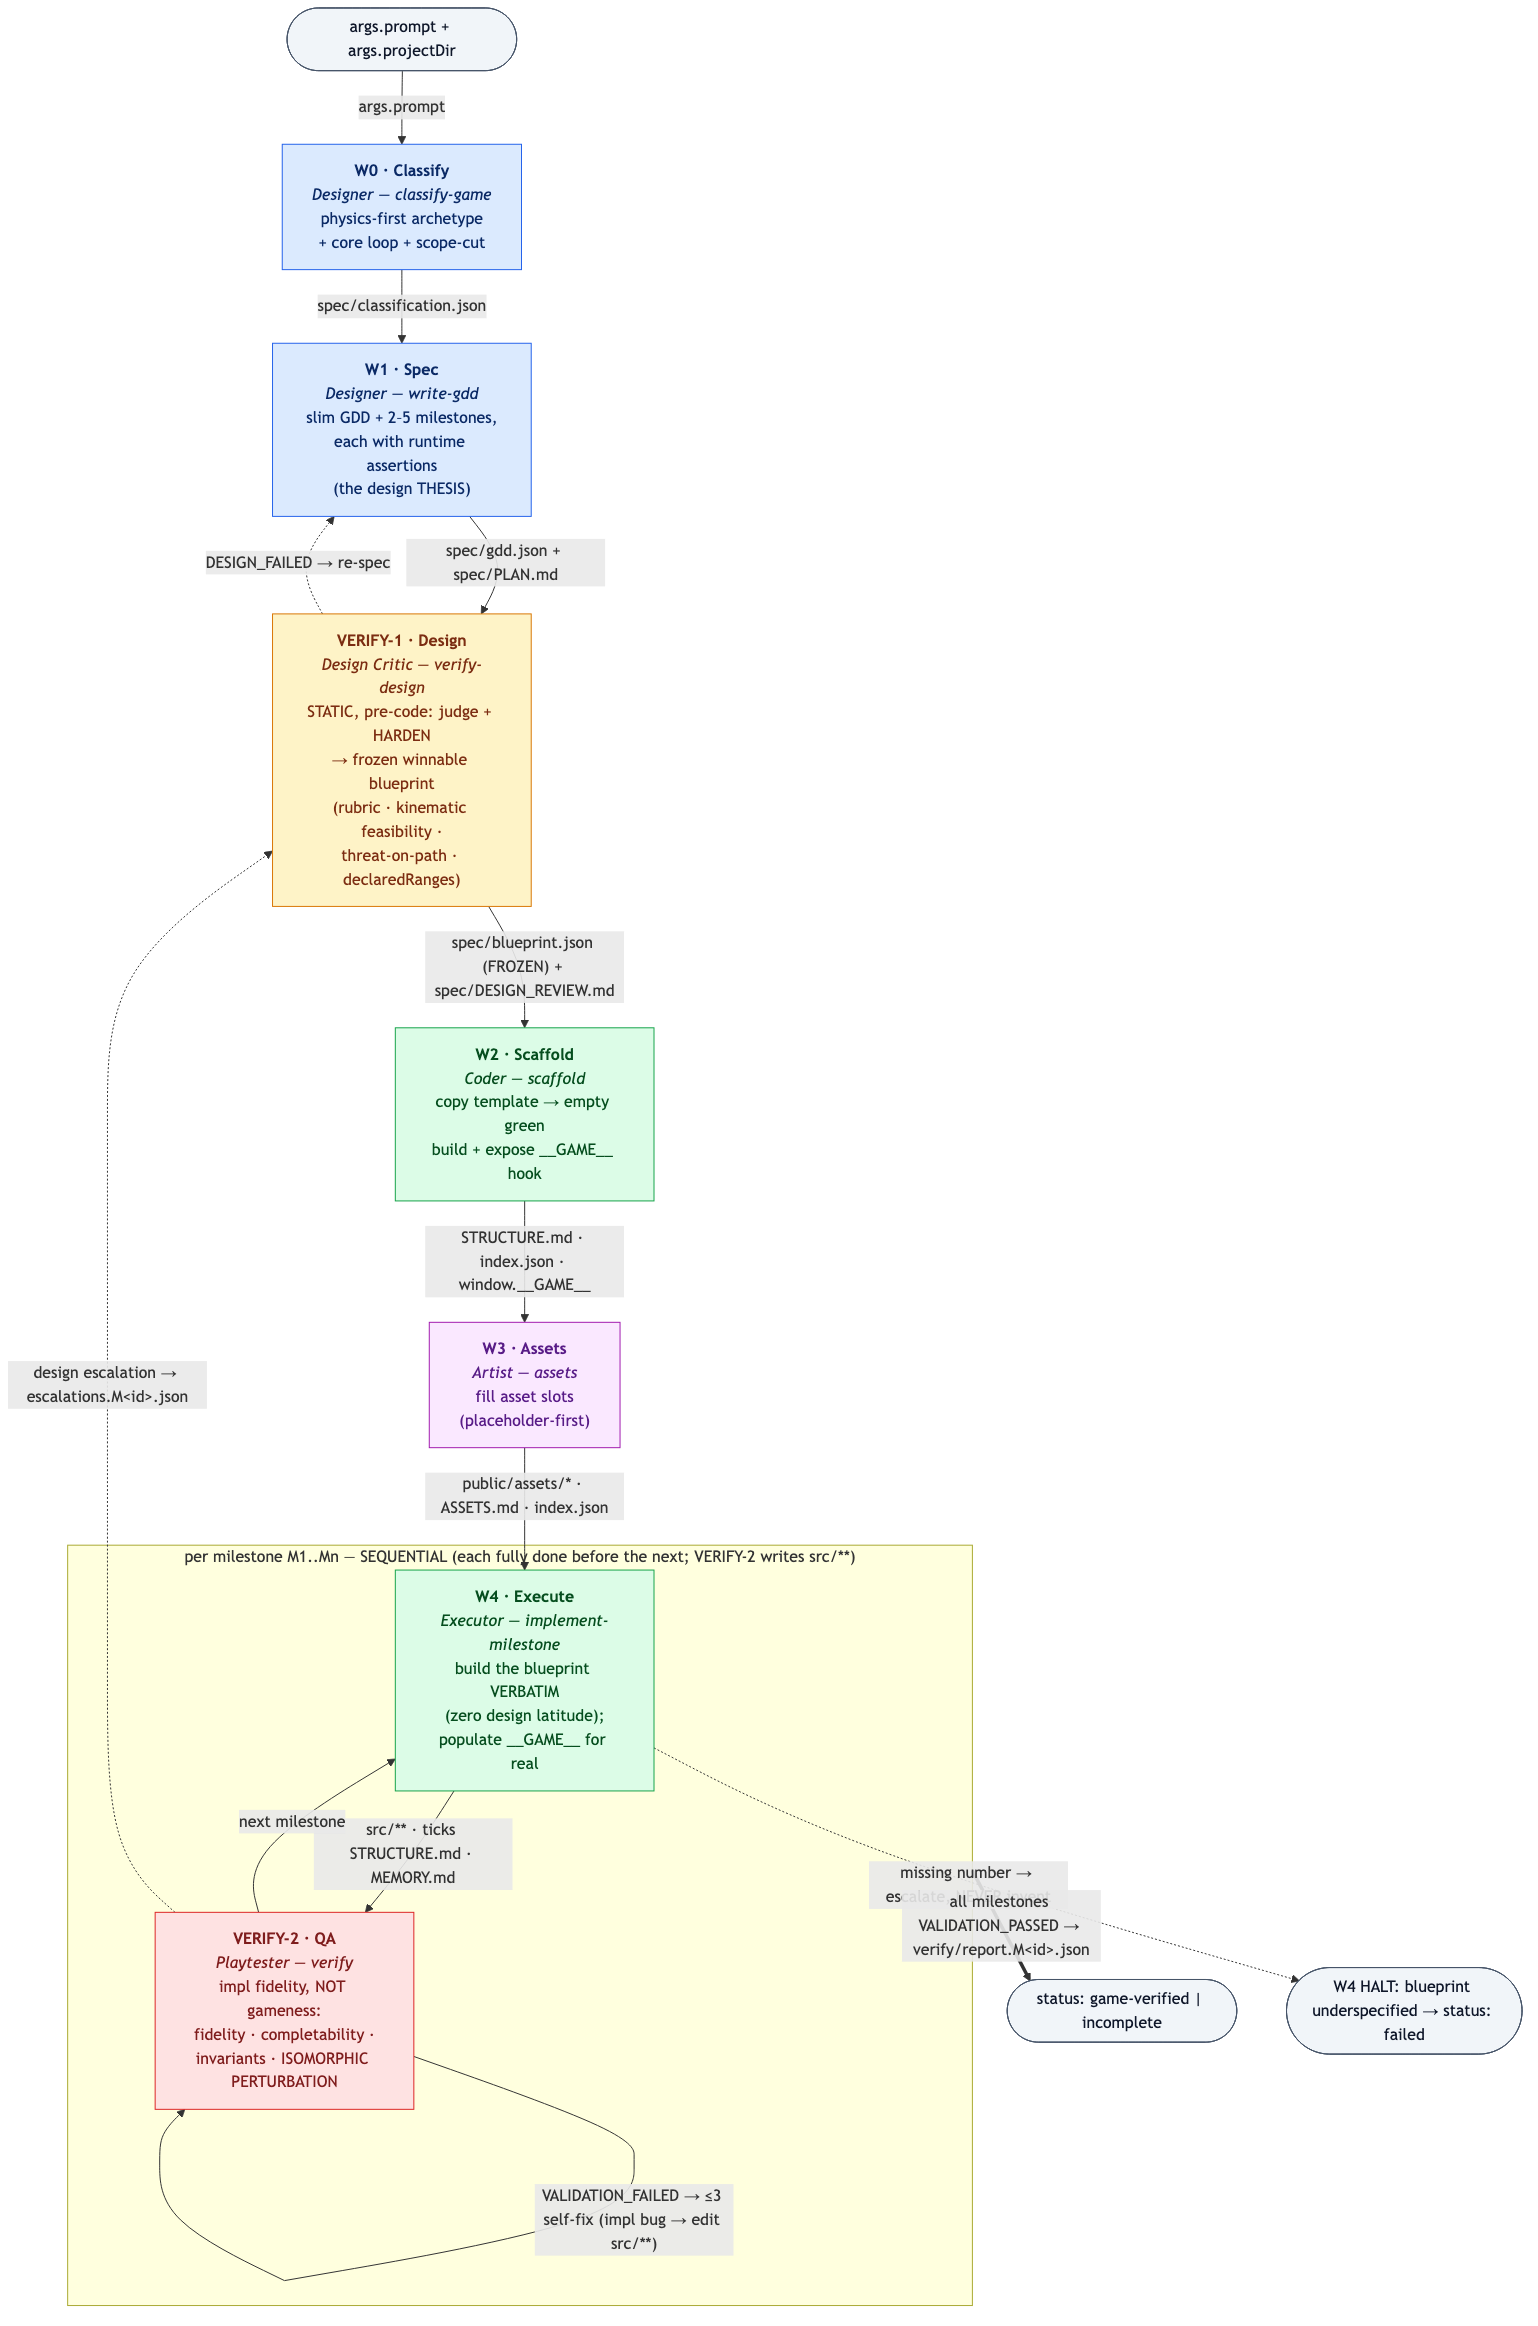
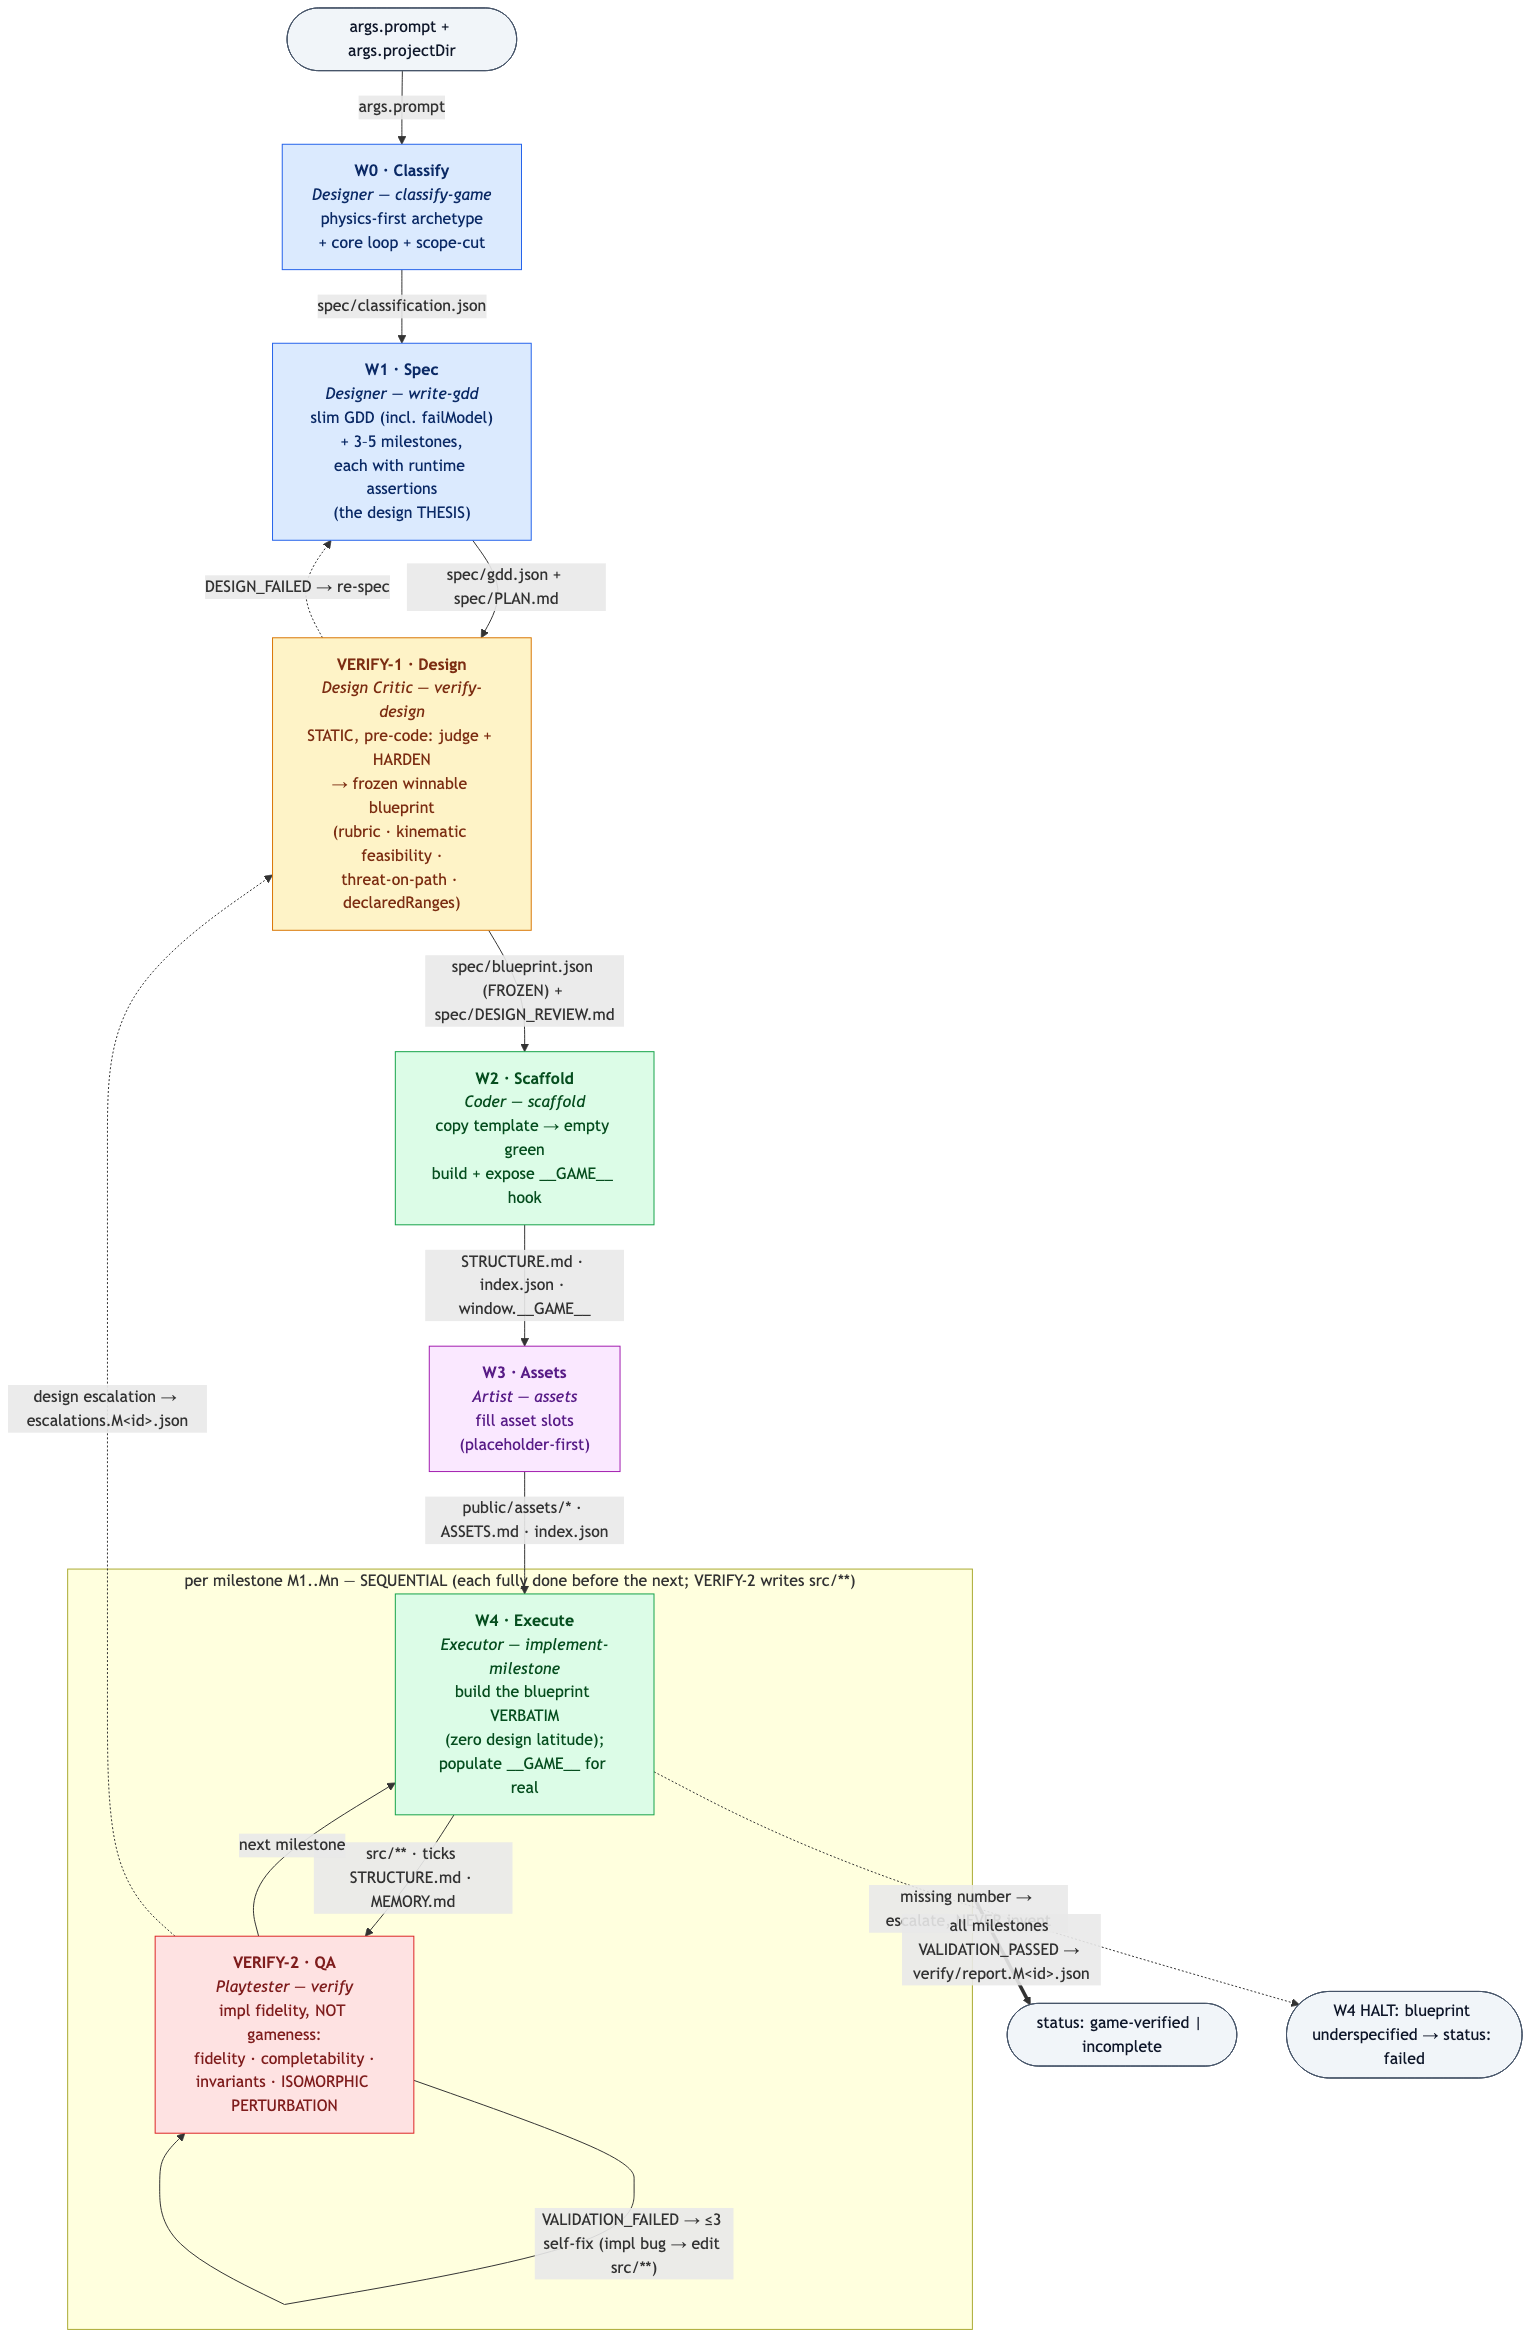
skillsys(docs): pipeline diagram + README W1 row reflect the newest shape — 3–5 milestones + failModel
The blueprint schema now mandates minItems:3 (23f3bd6) and W1 declares a
machine-readable failModel (09c5742); the published diagram/README still said 2–5
with no failModel. Regenerated pipeline.png/svg from the updated .mmd.

diff --git a/README.md b/README.md
@@ -108,7 +108,7 @@ Encoded once in `game-omni.js`, never copied into the skills:
   else serves. Deterministic; gibberish → `platformer` default; no-fit → closest + `confidence:"low"`.
 
 ### W1 · Spec — Designer · `write-gdd`
-`spec/classification.json` → `spec/gdd.json` (slim gameDNA + **2–5 milestones**) + `spec/PLAN.md` — the design
+`spec/classification.json` → `spec/gdd.json` (slim gameDNA incl. machine-readable **failModel** + **3–5 milestones**) + `spec/PLAN.md` — the design
 *thesis* VERIFY-1 hardens into the frozen blueprint.
 - **Slim GDD, constrained to the template.** Never invent a capability the template lacks — the GDD is a
   *composition* of template hooks, not a wishlist.